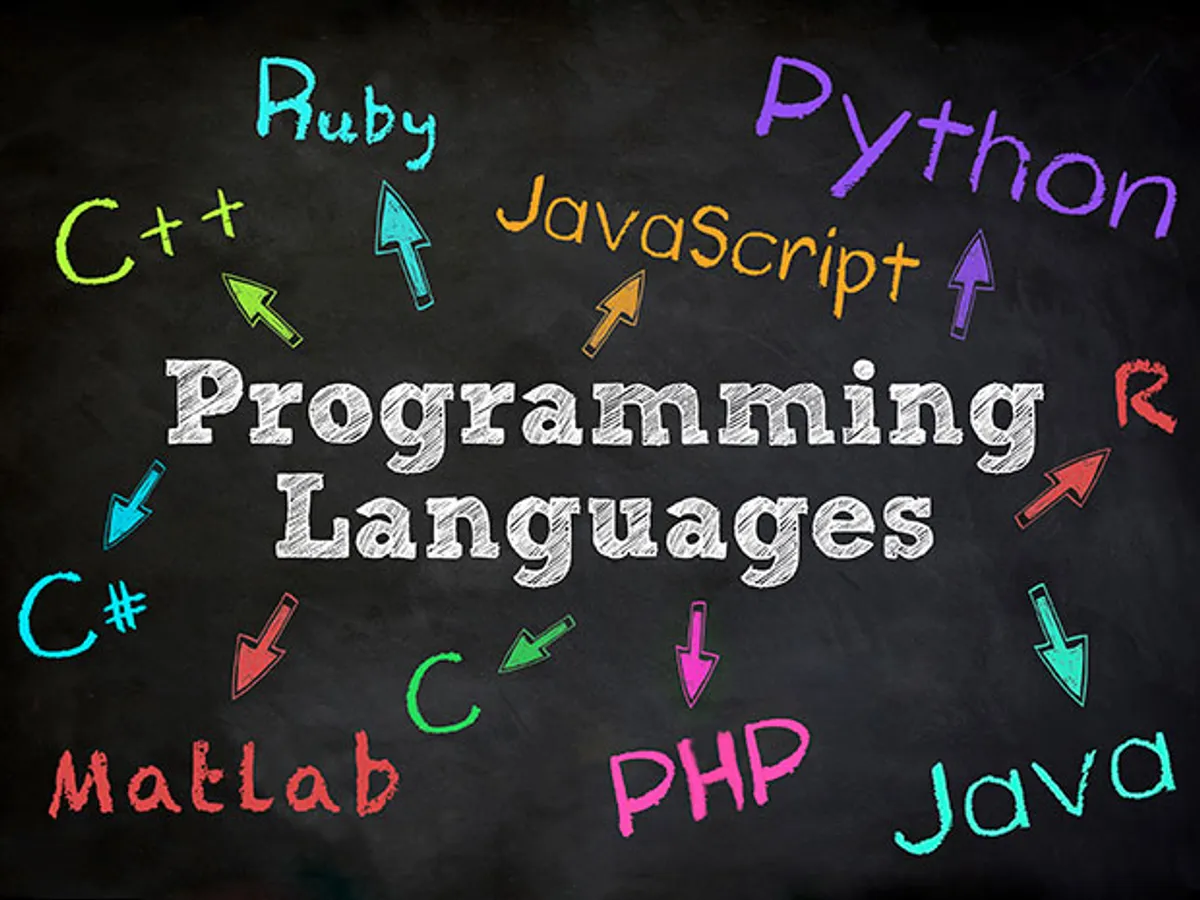
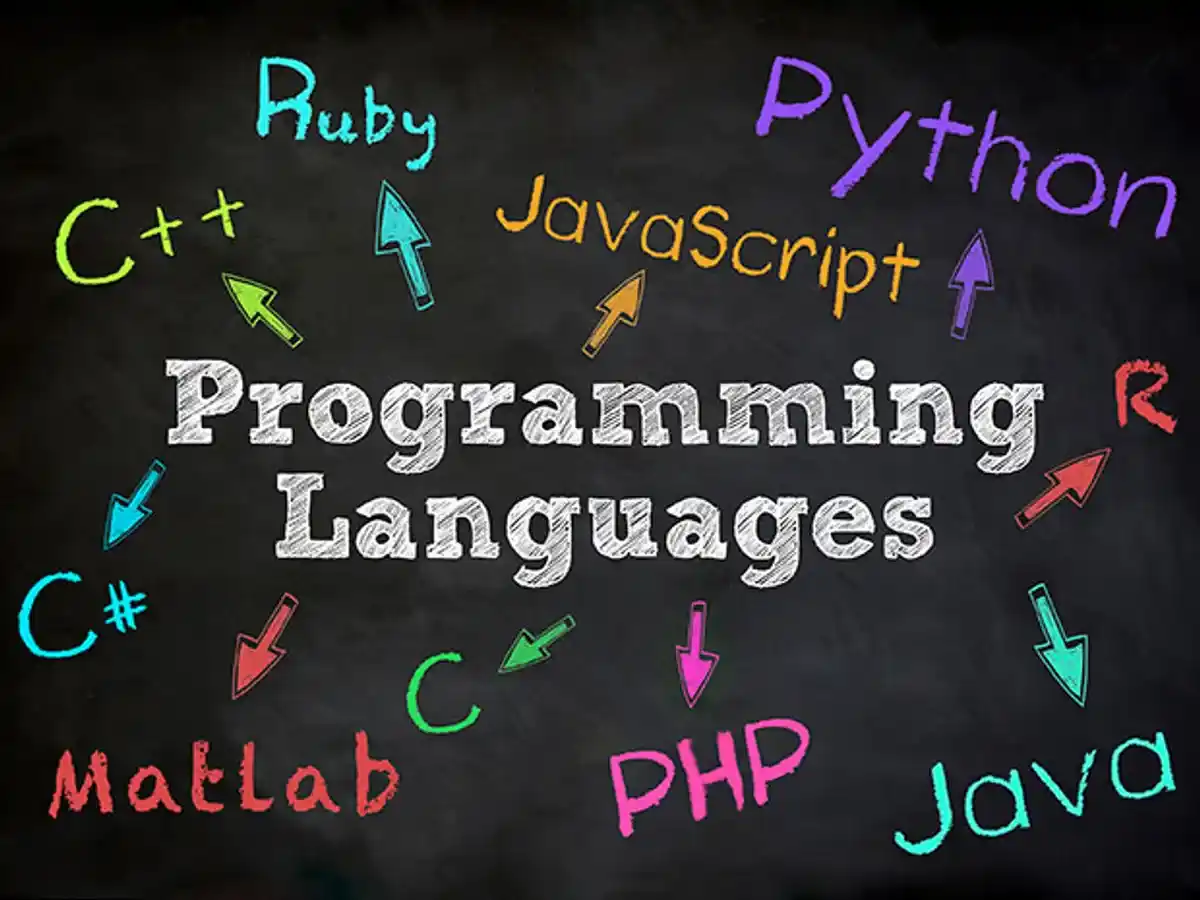
Compress the images

diff --git a/src/assets/Json/img_project.js b/src/assets/Json/img_project.js
@@ -2,11 +2,11 @@ import bus from "../img/Bus.webp";
 import React1 from "../img/React.jpg";
 import React2 from "../img/React-2.webp";
 import Programming from "../img/Programming.webp";
-import Frontend from "../img/frontend.png";
-import Ecommerce from "../img/Ecommerce.png";
+import Frontend from "../img/frontend.jpg";
+import Ecommerce from "../img/Ecommerce.jpg";
 import Linkden from "../img/linkden.webp";
-import StoryBook from "../img/Storybook.png";
-import Atom from "../img/Atom.png";
+import StoryBook from "../img/Storybook.jpg";
+import Atom from "../img/Atom.jpg";
 const imgProject = {
   bus,
   React1,

diff --git a/src/assets/Json/certificate-img.js b/src/assets/Json/certificate-img.js
@@ -1,9 +1,9 @@
 import img1 from "../Certificate/img1.jpg";
 import img2 from "../Certificate/img2.jpg";
-import img3 from "../Certificate/img3.png";
-import img4 from "../Certificate/img4.png";
-import img5 from "../Certificate/img5.png";
-import img6 from "../Certificate/img6.png";
+import img3 from "../Certificate/img3.jpg";
+import img4 from "../Certificate/img4.jpg";
+import img5 from "../Certificate/img5.jpg";
+import img6 from "../Certificate/img6.jpg";
 import img7 from "../Certificate/img7.jpg";
 
 const imgs = {
